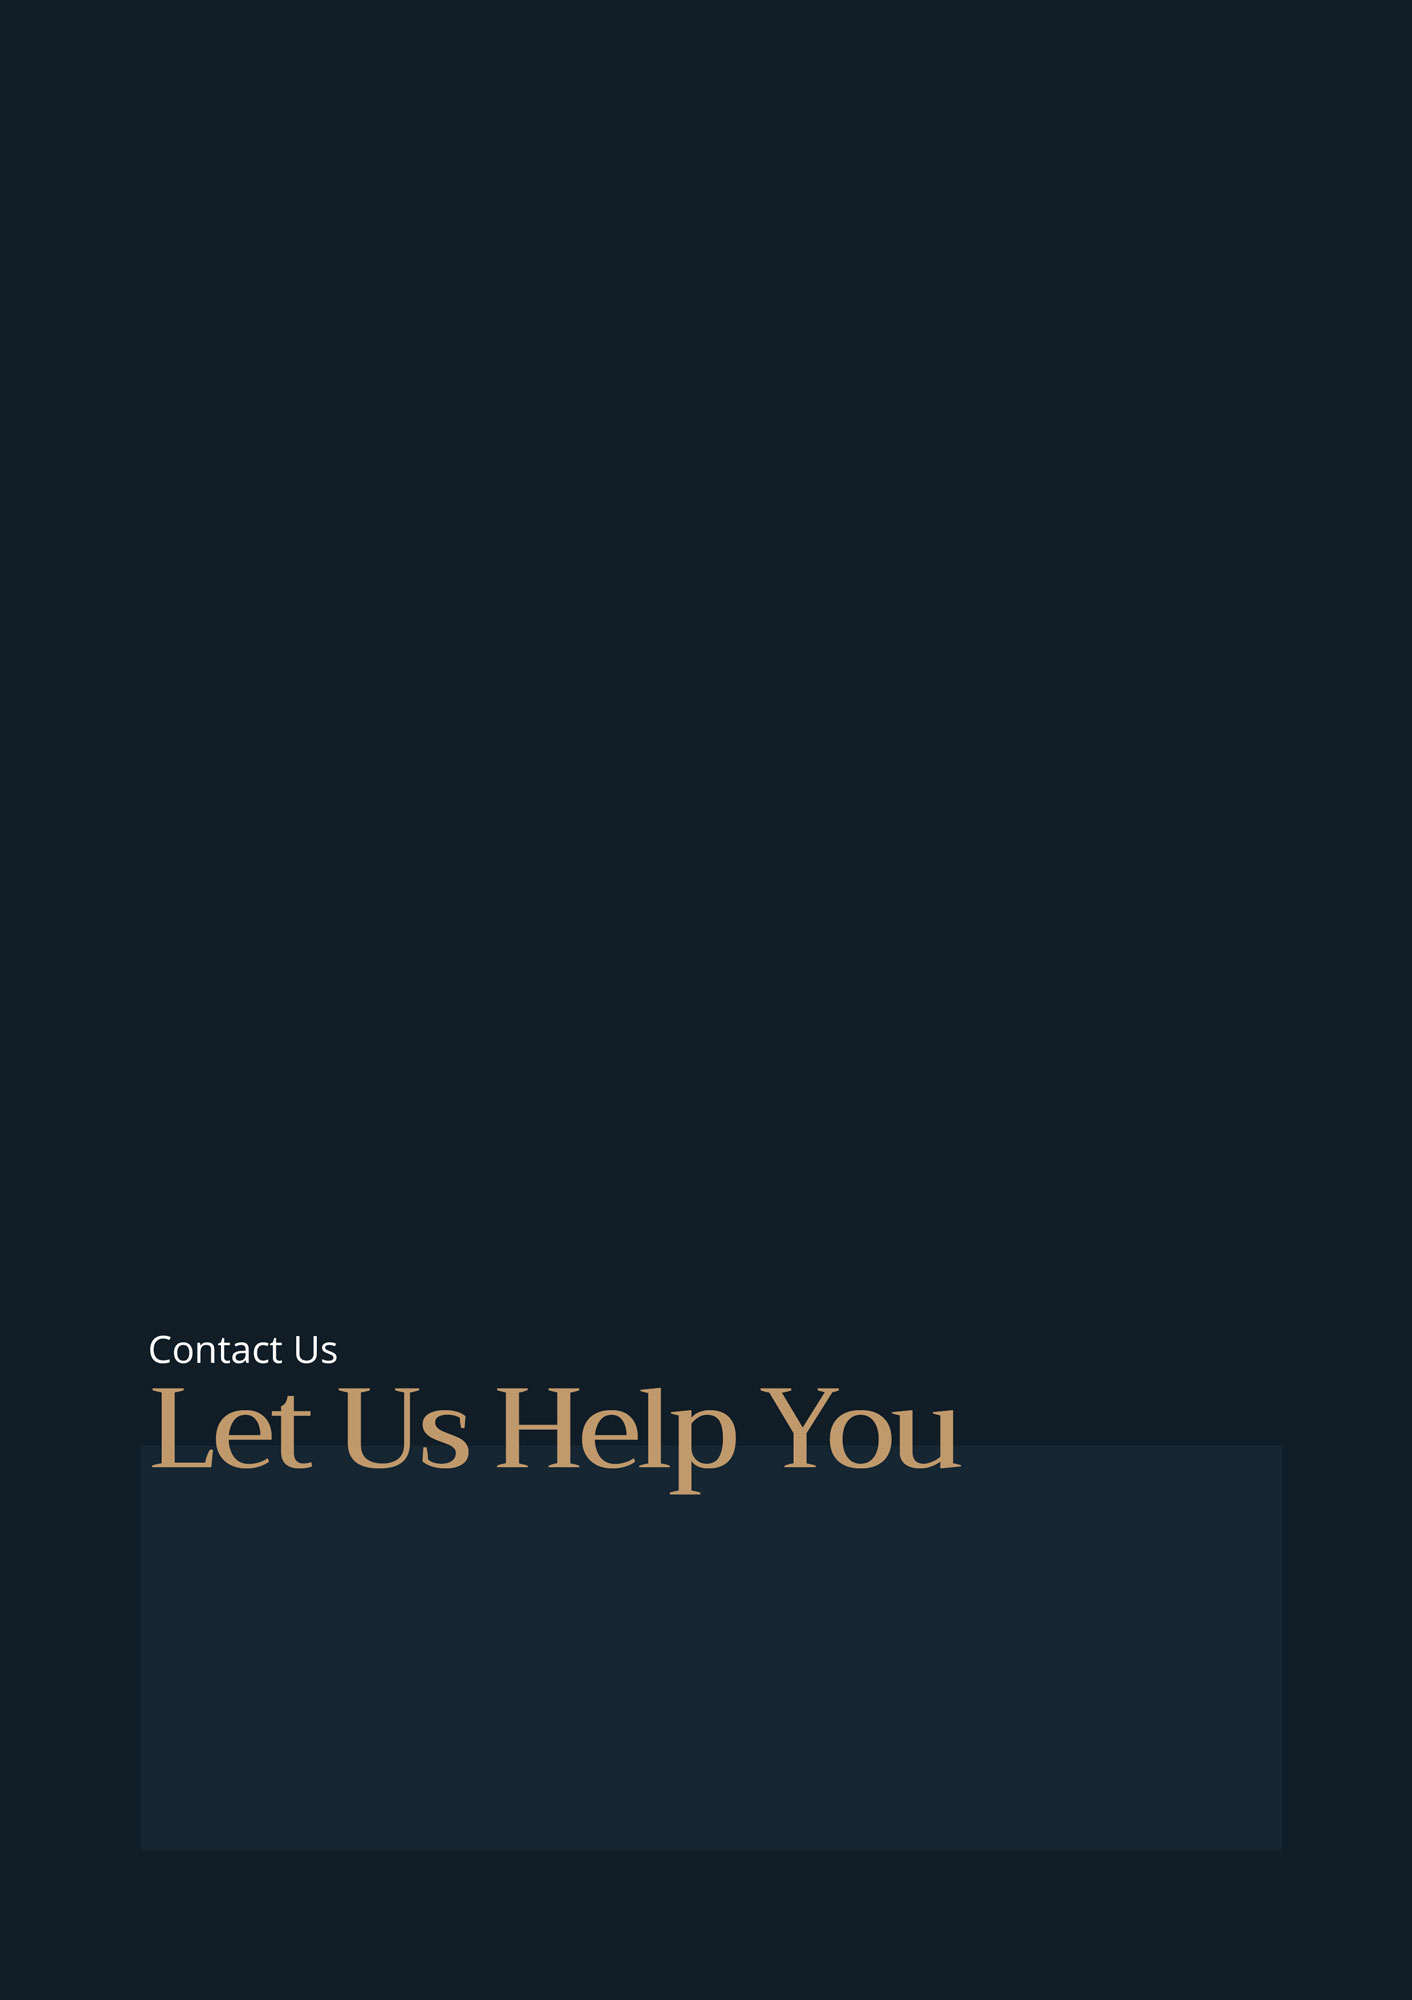
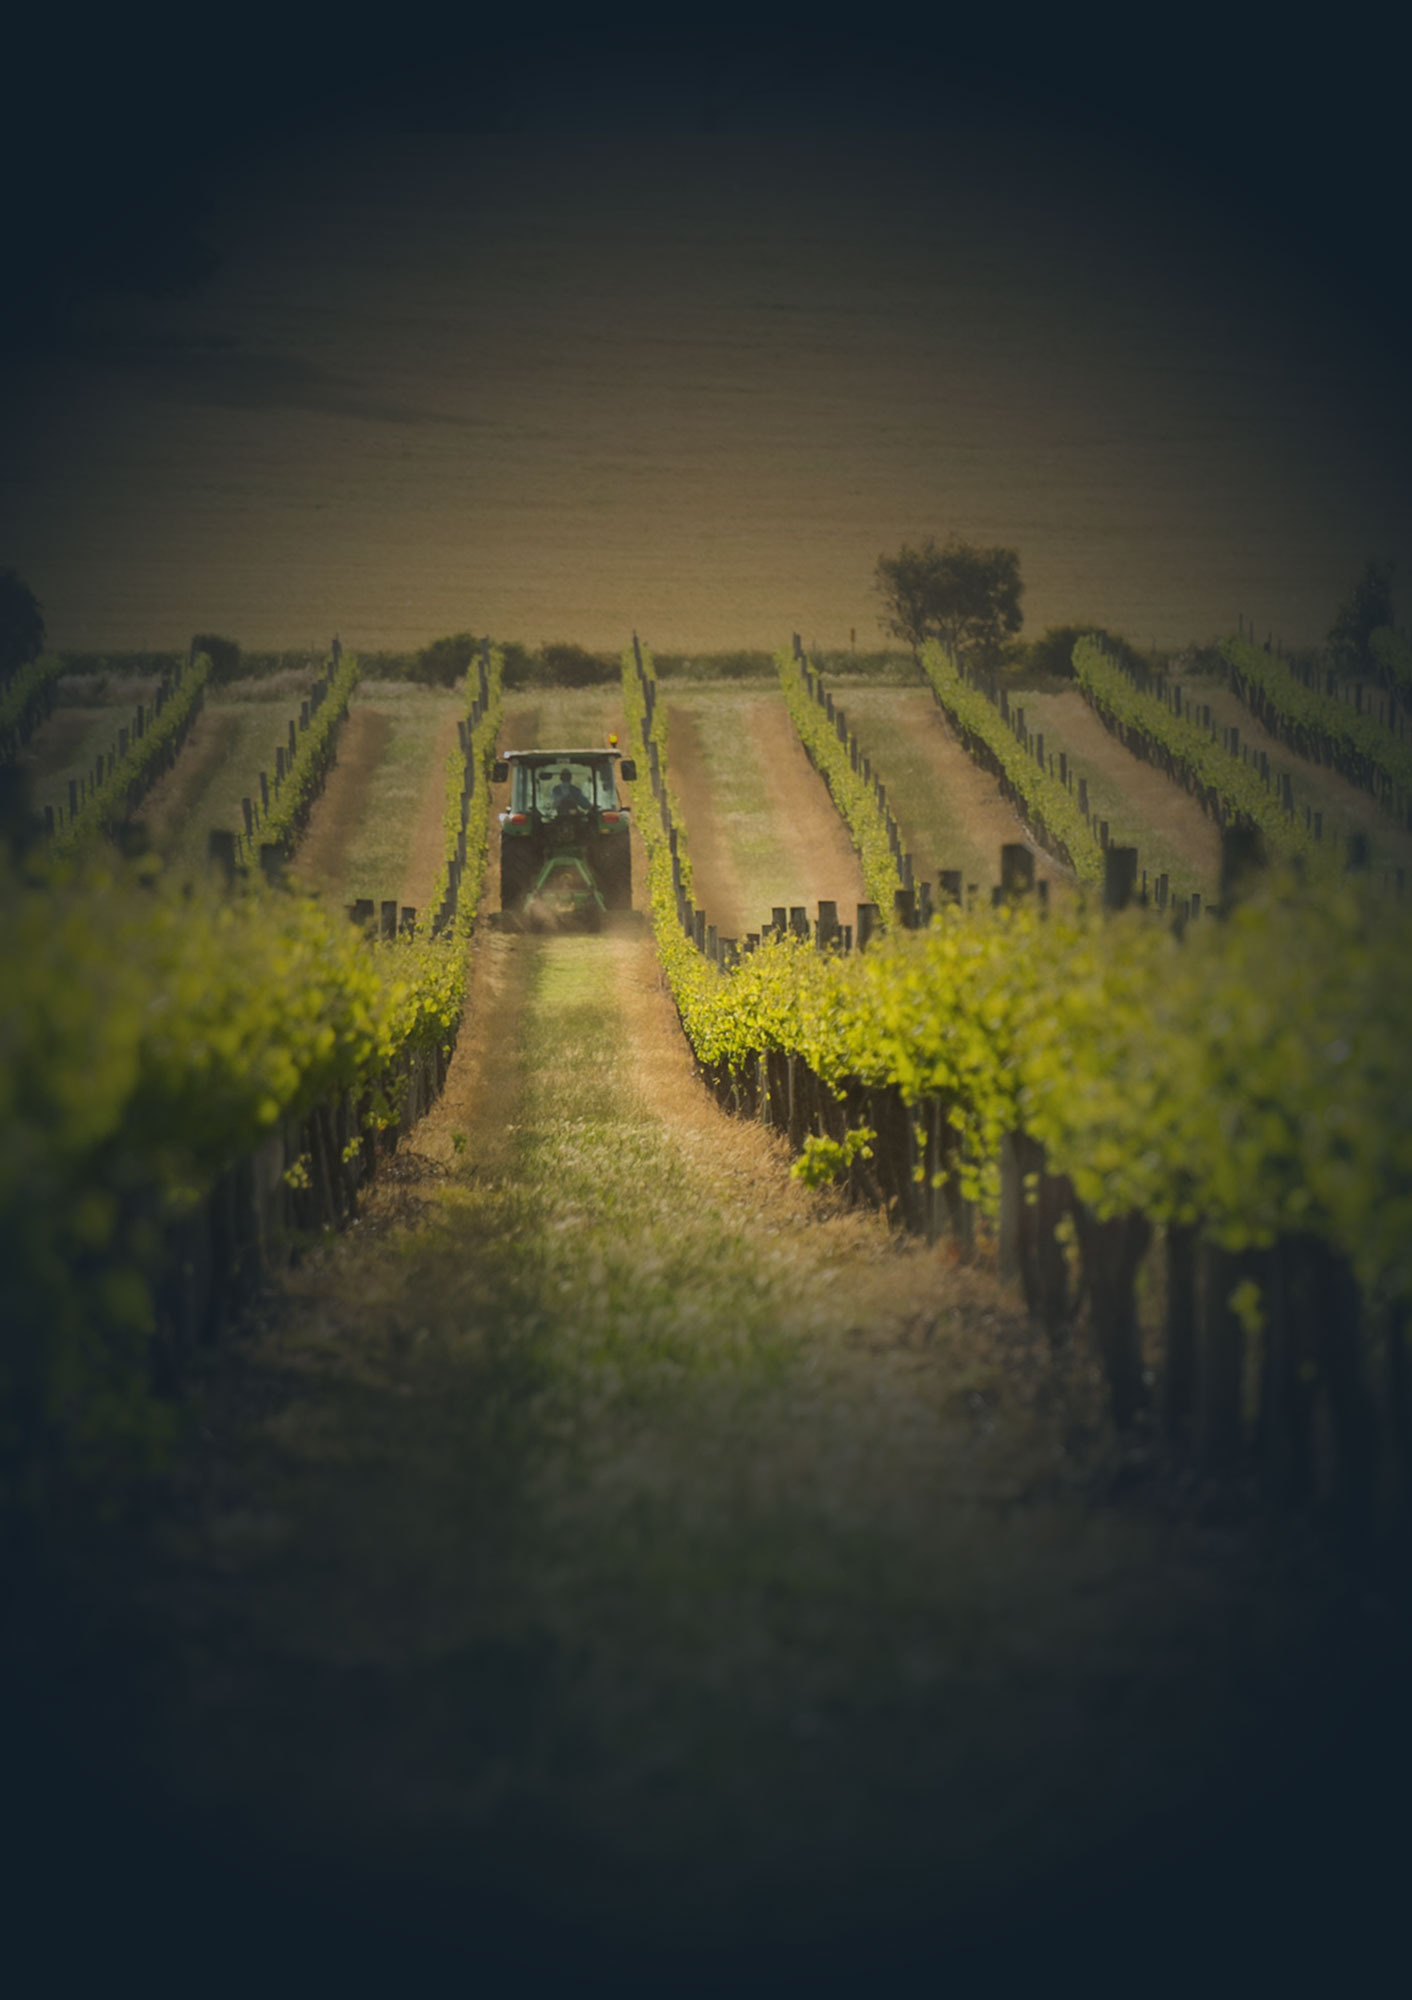
Contact Us Page New' '

diff --git a/css/pageflip-custom.css b/css/pageflip-custom.css
@@ -229,14 +229,34 @@ h3 {
 
 .contact_details {
   width: 760px;
-  height: 230px;
+  /* height: 230px; */
   position: absolute;
   bottom: 100px;
   left: 100px;
   display: flex;
   flex-wrap: wrap;
-  padding: 0px 50px 20px 50px;
+  padding: 40px 50px 20px 50px;
   /* border: 1px solid red; */
+  background-color: rgba(255, 255, 255, 0.05);
+}
+
+.contact_header {
+  position: absolute;
+  bottom: 315px;
+  left: 125px;
+  /* border: 2px solid red; */
+}
+
+.contact_header h1 {
+  margin: 0px;
+  padding: 0px;
+  margin-top: -25px;
+  font-weight: 500;
+}
+
+.contact_header h3 {
+  margin: 0px;
+  padding: 0px;
 }
 
 .contact_details a {
@@ -262,4 +282,13 @@ h3 {
 
 .contact_item {
   width: 100%;
+}
+
+#contact_quote {
+  position: relative;
+  text-align: center;
+  font-style: italic;
+  font-size: 2.7em;
+  padding-top: 150px;
+  opacity: 0.9;
 }

diff --git a/index.html b/index.html
@@ -41,7 +41,7 @@
 
     <!-- start needed css style files -->
     <link
-      href="//fonts.googleapis.com/css2?family=Open+Sans:ital,wght@0,400;1,300&family=Trirong:ital,wght@0,500;1,500&display=swap"
+      href="//fonts.googleapis.com/css2?family=Open+Sans:ital,wght@0,300;0,400;1,400&family=Trirong:ital,wght@0,500;1,500&display=swap"
       rel="stylesheet"
     />
     <link href="css/pageflip.css" rel="stylesheet" type="text/css" />
@@ -175,6 +175,11 @@
         </div>
       </div>
       <div class="cover" id="page10">
+        <h3 id="contact_quote">Sustainably managed & <br />delivered</h3>
+        <div class="contact_header">
+          <h3>Contact Us</h3>
+          <h1>Let Us Help You</h1>
+        </div>
         <div class="contact_details">
           <a href="tel:+611300322251"
             ><img
